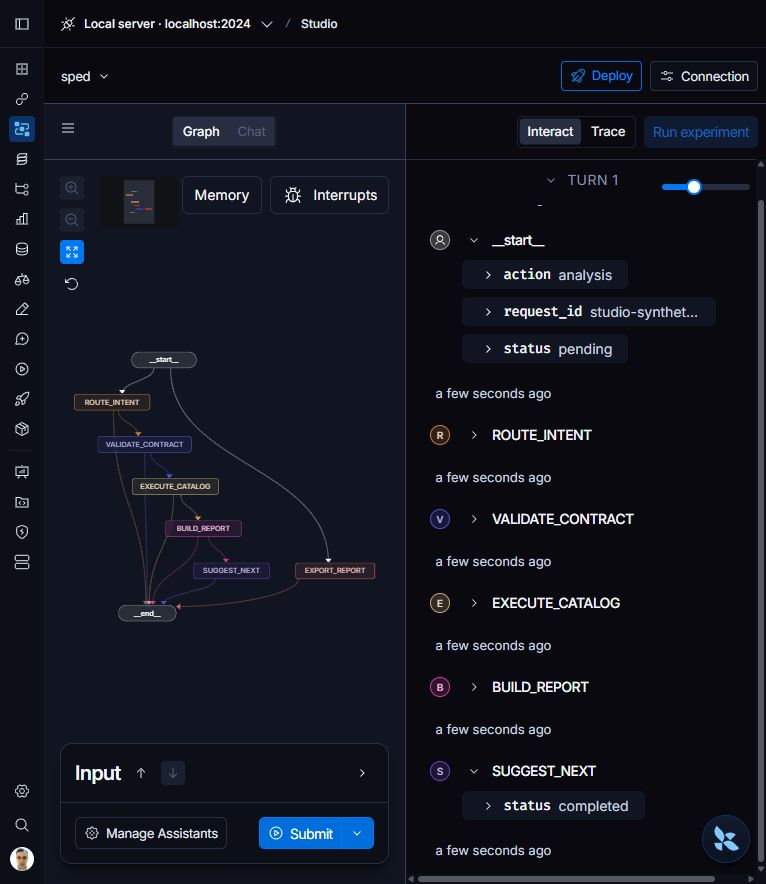
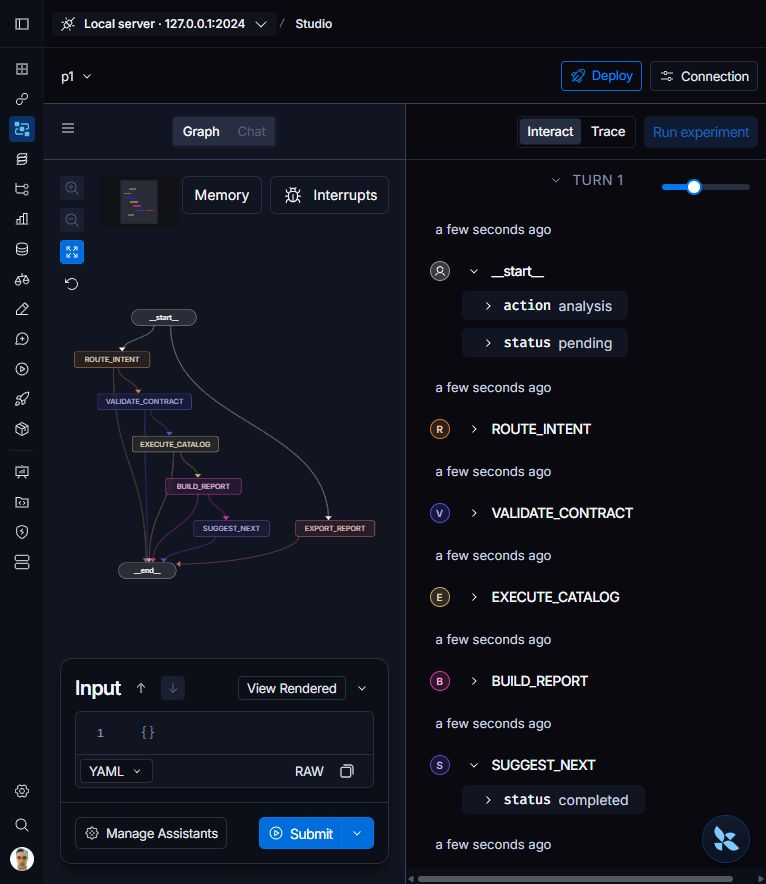
fix: simplificar adaptador e validar execução no Studio

diff --git a/devtools/studio.py b/devtools/studio.py
@@ -6,7 +6,8 @@ import re
 import socket
 import sys
 from collections.abc import AsyncIterator, Awaitable, Callable
-from contextlib import AbstractAsyncContextManager, asynccontextmanager
+from contextlib import asynccontextmanager
+from functools import partial
 from pathlib import Path
 from tempfile import TemporaryDirectory
 
@@ -68,7 +69,7 @@ class DemoRequests(BaseHTTPMiddleware):
                     raise ValueError
                 return await call_next(request)
             match = _RUN_PATH.fullmatch(path)
-            if match is None or not _new_run(body):
+            if match is None or not _new_run(body, match.group(1)):
                 raise ValueError
             if thread_id := match.group(1):
                 if thread_id in self.used_threads:
@@ -80,10 +81,11 @@ class DemoRequests(BaseHTTPMiddleware):
         return await call_next(request)
 
 
-def _new_run(body: dict[str, object]) -> bool:
+def _new_run(body: dict[str, object], thread_id: str | None) -> bool:
     config = body.get('config') or {}
     if not isinstance(config, dict):
         return False
+    configurable = config.get('configurable') or {}
     return (
         body.get('input') == _INITIAL
         and body.get('langsmith_tracing') in (None, False)
@@ -100,7 +102,9 @@ def _new_run(body: dict[str, object]) -> bool:
                 'context',
             )
         )
-        and not config.get('configurable')
+        and isinstance(configurable, dict)
+        and set(configurable) <= {'thread_id'}
+        and configurable.get('thread_id') in (None, thread_id)
         and set(config) <= {'configurable', 'tags', 'recursion_limit'}
     )
 
@@ -145,22 +149,9 @@ async def _graph(
         yield _build_graph(execution)
 
 
-def p1(
-    runtime: ServerRuntime,
-) -> AbstractAsyncContextManager[CompiledStateGraph]:
-    return _graph('p1', runtime)
-
-
-def clarification(
-    runtime: ServerRuntime,
-) -> AbstractAsyncContextManager[CompiledStateGraph]:
-    return _graph('clarification', runtime)
-
-
-def provider_failure(
-    runtime: ServerRuntime,
-) -> AbstractAsyncContextManager[CompiledStateGraph]:
-    return _graph('provider_failure', runtime)
+p1 = partial(_graph, 'p1')
+clarification = partial(_graph, 'clarification')
+provider_failure = partial(_graph, 'provider_failure')
 
 
 def _private_environment() -> None:

diff --git a/tests/test_studio.py b/tests/test_studio.py
@@ -69,13 +69,22 @@ def test_unsupported_run_never_reaches_server(demo_client, change):
 def test_only_new_threads_and_no_state_edits(demo_client):
     body = {'input': {'action': 'analysis', 'status': 'pending'}}
     path = '/threads/first/runs/stream'
-    assert demo_client.post(path, json=body).status_code == HTTPStatus.OK
+    studio_body = {**body, 'config': {'configurable': {'thread_id': 'first'}}}
+    assert (
+        demo_client.post(path, json=studio_body).status_code == HTTPStatus.OK
+    )
     assert (
         demo_client.post(path, json=body).status_code == HTTPStatus.FORBIDDEN
     )
     assert (
         demo_client.post('/threads/second/runs/stream', json=body).status_code
         == HTTPStatus.OK
+    )
+    assert (
+        demo_client.post(
+            '/threads/third/runs/stream', json=studio_body
+        ).status_code
+        == HTTPStatus.FORBIDDEN
     )
     for path in ('/threads/first/state', '/threads/first/copy', '/runs/batch'):
         assert (

diff --git a/README.md b/README.md
@@ -65,6 +65,6 @@ O código fica em `src/agente_sped`, dividido entre `domain`, `application`, `in
 
 Os comandos e dependências estão em [pyproject.toml](pyproject.toml); as orientações para agentes, em [AGENTS.md](AGENTS.md).
 
-Studio opcional, somente com dados sintéticos: execute `uv run --locked --group studio python devtools/studio.py`, abra a URL Studio indicada, escolha `p1`, `clarification` ou `provider_failure` e envie `{"action":"analysis","status":"pending"}` em Graph, sempre em uma thread nova. Não exige chave de API; retomada e edição de estado são recusadas. `Ctrl+C` encerra e limpa a sessão temporária. [Captura real](docs/assets/langgraph-studio.png).
+Studio opcional, somente com dados sintéticos: execute `uv run --locked --group studio python devtools/studio.py`, abra a URL Studio indicada, escolha `p1`, `clarification` ou `provider_failure` e envie `{"action":"analysis","status":"pending"}` em Graph, sempre em uma thread nova. Não exige chave Gemini; a interface hospedada pode exigir autenticação LangSmith. Retomada e edição de estado são recusadas. `Ctrl+C` encerra e limpa a sessão temporária. [Captura real](docs/assets/langgraph-studio.png).
 
 Contribuições seguem o [fluxo da Campos Labs](https://github.com/campos-labs/.github/blob/main/CONTRIBUTING.md). Para relatar vulnerabilidades, consulte a [política de segurança](https://github.com/campos-labs/.github/blob/main/SECURITY.md).
